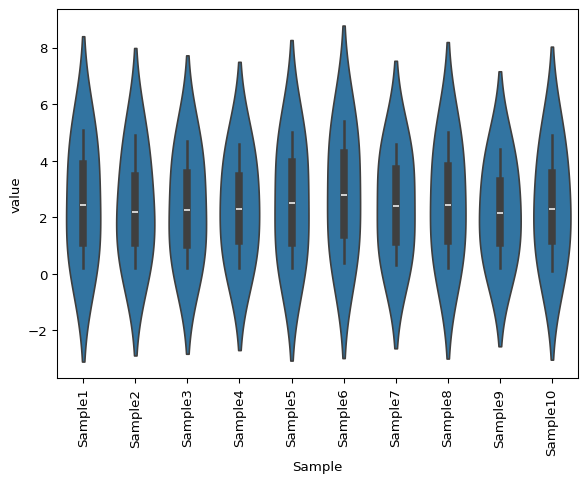
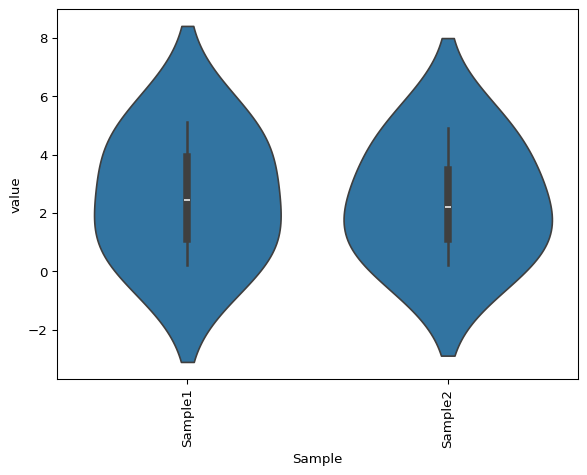
Add subset and transpose functions

diff --git a/pydata/ldata.py b/pydata/ldata.py
@@ -1,4 +1,6 @@
 import pandas as pd
+from copy import deepcopy
+import seaborn as sns
 
 class ldata:
     """
@@ -48,9 +50,9 @@ class ldata:
             row names of data attribute.
         """
 
-        self._data = data 
-        self._description = description
-        self._annotation = annotation
+        self._data = deepcopy(data)
+        self._description = deepcopy(description)
+        self._annotation = deepcopy(annotation)
         self._validate()
 
     def __str__(self):
@@ -177,6 +179,47 @@ class ldata:
             "data rownames do not match annotation ID"
         assert colnames == description["ID"].tolist(), \
             "data colnames do not match description ID"
-
-
     
+    @staticmethod
+    def example_ldata():
+        iris = sns.load_dataset("iris")
+        desc = pd.DataFrame({"ID": ["Sample" + str(i) for i in range(1, 151)], "Species": iris["species"]})
+        data = iris.drop(["species"], axis = 1).transpose()
+        data.columns = desc["ID"].tolist()
+        annot = pd.DataFrame({"ID": data.index.tolist()})
+        annot["type"] = annot["ID"].str.extract(r"_(.*)$", expand = False)
+        return ldata(data, desc, annot)
+
+    def subset(self, samples = None, features = None):
+        if samples is None:
+            samples = self.colnames
+        if features is None:
+            features = self.rownames 
+
+        assert set(samples).issubset(self.colnames), "samples are not in data"
+        assert set(features).issubset(self.rownames), "features are not in data"
+
+        self = deepcopy(self)
+        new_dat = deepcopy(self.data)
+        new_dat = new_dat[samples][new_dat.index.isin(features)]
+        new_desc = deepcopy(self.description)
+        new_desc = new_desc[new_desc["ID"].isin(samples)].reset_index(drop = True)
+        new_annot = deepcopy(self.annotation)
+        new_annot = new_annot[new_annot["ID"].isin(features)].reset_index(drop = True)
+
+        self._data = new_dat
+        self._description = new_desc
+        self._annotation = new_annot
+        self._validate()
+        return self
+
+    def transpose(self):
+        self = deepcopy(self)
+        new_dat = deepcopy(self.data)
+        new_desc = deepcopy(self.description)
+        new_annot = deepcopy(self.annotation)
+        self._data = new_dat.transpose()
+        self._description = new_annot
+        self._annotation = new_desc 
+        self._validate() 
+        return self

diff --git a/tests/test_pydata.py b/tests/test_pydata.py
@@ -42,6 +42,11 @@ def test_pydata_generation(snapshot):
     
     snapshot.assert_match(str(x), "pydata.txt")
 
+def test_example_pydata(snapshot):
+    x = pydata.example_pydata()
+    assert isinstance(x, pydata)
+    snapshot.assert_match(str(x), "example_pydata.txt")
+
 def test_perform_pca(snapshot):
     x = pydata(data, desc, annot)
 
@@ -71,3 +76,53 @@ def test_perform_lda(snapshot):
     assert isinstance(x.lda, lda)
     snapshot.assert_match(str(x.lda), "pydata_lda_print.txt")
     snapshot.assert_match(x.lda.data.round(3).to_csv(), "pydata_lda_data.txt")
+
+def test_subset():
+    x = pydata(data, desc, annot)
+
+    with pytest.raises(AssertionError) as err:
+        x.subset(samples = ["sample"])
+    assert "samples are not in data" in str(err.value)
+
+    with pytest.raises(AssertionError) as err:
+        x.subset(features = ["feature"])
+    assert "features are not in data" in str(err.value)
+
+    x.perform_pca()
+    x.perform_lda(target = "Treatment", n_comp = 1)
+    samples = ["Sample1", "Sample3"]
+    features = ["Feature1", "Feature3", "Feature18"]
+    s = x.subset(samples = samples, features = features)
+
+    assert isinstance(s, pydata)
+    assert s.colnames == samples 
+    assert s.rownames == features 
+    assert s.description["ID"].tolist() == samples
+    assert s.description.index.tolist() == [0, 1]
+    assert s.annotation["ID"].tolist() == features
+    assert s.annotation.index.tolist() == [0, 1, 2]
+    assert s.data.columns.tolist() == samples 
+    assert s.data.index.tolist() == features
+    assert s.pcs is None 
+    assert s.lda is None
+    assert x.colnames == data.columns.tolist()
+    assert x.rownames == data.index.tolist()
+
+def test_transpose():
+    x = pydata(data, desc, annot)
+    x.perform_pca()
+    x.perform_lda(target = "Treatment", n_comp = 1)
+
+    l = x.transpose()
+
+    assert isinstance(l, pydata)
+    assert l.colnames == x.rownames
+    assert l.rownames == x.colnames
+    assert l.description["ID"].tolist() == x.annotation["ID"].tolist()
+    assert l.annotation["ID"].tolist() == x.description["ID"].tolist()
+    assert l.data.columns.tolist() == x.data.index.tolist()
+    assert l.data.index.tolist() == x.data.columns.tolist()
+    assert l.pcs is None 
+    assert l.lda is None
+    assert x.colnames == data.columns.tolist()
+    assert x.rownames == data.index.tolist()

diff --git a/pydata/pydata.py b/pydata/pydata.py
@@ -88,13 +88,8 @@ class pydata(ldata):
 
     @staticmethod
     def example_pydata():
-        iris = sns.load_dataset("iris")
-        desc = pd.DataFrame({"ID": ["Sample" + str(i) for i in range(1, 151)], "Species": iris["species"]})
-        data = iris.drop(["species"], axis = 1).transpose()
-        data.columns = desc["ID"].tolist()
-        annot = pd.DataFrame({"ID": data.index.tolist()})
-        annot["type"] = annot["ID"].str.extract(r"_(.*)$", expand = False)
-        return pydata(data, desc, annot)
+        out = ldata.example_ldata()
+        return pydata(out.data, out.description, out.annotation)
 
     def _get_pcs(self):
         return getattr(self, "_pcs")
@@ -113,6 +108,18 @@ class pydata(ldata):
             value._validate()
         self._lda = value
     lda = property(_get_lda, _set_lda)
+
+    def subset(self, samples = None, features = None):
+        out = super().subset(samples = samples, features = features)
+        out.pcs = None 
+        out.lda = None 
+        return out
+
+    def transpose(self):
+        out = super().transpose()
+        out.pcs = None 
+        out.lda = None 
+        return out
 
     def perform_pca(
             self, 
@@ -267,13 +274,9 @@ class pydata(ldata):
         df = pd.merge(df, self.lda.description, on = "ID")
         sns.relplot(data = df, x = xaxis, y = yaxis, hue = colour_by)
     
-    def _violin_plot(self, samples = None, **kwargs):
-        if samples is None:
-            samples = self.colnames
-        dat = self._plot_data()
-        dat = dat[dat["Sample"].isin(samples)]
+    def _violin_plot(self, **kwargs):
         sns.violinplot(
-            data = dat, 
+            data = self._plot_data(), 
             x = "Sample", 
             y = "value"
         )
@@ -400,7 +403,7 @@ class pydata(ldata):
                         linewidth = 0
                     )
                 plot.ax_row_dendrogram.legend(
-                    title = "Featurs",
+                    title = "Features",
                     loc = "center left", 
                     ncol = 1
                 )

diff --git a/tests/test_ldata.py b/tests/test_ldata.py
@@ -105,3 +105,52 @@ def test_dimnames():
     x.dimnames = [x.rownames, ["A", "B", "C", "D", "E"][::-1]]
     assert x.colnames == ["A", "B", "C", "D", "E"][::-1]
     assert x.description["ID"].tolist() == ["A", "B", "C", "D", "E"][::-1]
+
+def test_example_ldata(snapshot):
+    x = ldata.example_ldata()
+    assert isinstance(x, ldata)
+    snapshot.assert_match(str(x), "example_ldata.txt")
+
+def test_subset(snapshot):
+    x = ldata(data, desc, annot)
+
+    with pytest.raises(AssertionError) as err:
+        x.subset(samples = ["sample"])
+    assert "samples are not in data" in str(err.value)
+
+    with pytest.raises(AssertionError) as err:
+        x.subset(features = ["feature"])
+    assert "features are not in data" in str(err.value)
+
+    samples = ["Sample1", "Sample3"]
+    features = ["Feature1", "Feature3", "Feature18"]
+    s = x.subset(samples = samples, features = features)
+
+    assert isinstance(s, ldata)
+    assert s.colnames == samples 
+    assert s.rownames == features 
+    assert s.description["ID"].tolist() == samples
+    assert s.description.index.tolist() == [0, 1]
+    assert s.annotation["ID"].tolist() == features
+    assert s.annotation.index.tolist() == [0, 1, 2]
+    assert s.data.columns.tolist() == samples 
+    assert s.data.index.tolist() == features
+    assert x.colnames == data.columns.tolist()
+    assert x.rownames == data.index.tolist()
+    snapshot.assert_match(str(s), "subset_ldata.txt")
+
+def test_transpose(snapshot):
+    x = ldata(data, desc, annot)
+
+    l = x.transpose()
+
+    assert isinstance(l, ldata)
+    assert l.colnames == x.rownames
+    assert l.rownames == x.colnames
+    assert l.description["ID"].tolist() == x.annotation["ID"].tolist()
+    assert l.annotation["ID"].tolist() == x.description["ID"].tolist()
+    assert l.data.columns.tolist() == x.data.index.tolist()
+    assert l.data.index.tolist() == x.data.columns.tolist()
+    assert x.colnames == data.columns.tolist()
+    assert x.rownames == data.index.tolist()
+    snapshot.assert_match(str(l), "transpose_ldata.txt")

diff --git a/tests/test_lda.py b/tests/test_lda.py
@@ -86,3 +86,15 @@ def test_dimnames():
     x.dimnames = [x.rownames, ["A", "B", "C", "D", "E"][::-1]]
     assert x.colnames == ["A", "B", "C", "D", "E"][::-1]
     assert x.description["ID"].tolist() == ["A", "B", "C", "D", "E"][::-1]
+
+def test_subset():
+    x = lda(lds, desc, annot)
+    with pytest.raises(Exception) as err:
+        x.subset()
+    assert "Cannot subset lda object" in str(err.value)
+
+def test_transpose():
+    x = lda(lds, desc, annot)
+    with pytest.raises(Exception) as err:
+        x.transpose()
+    assert "Cannot transpose lda object" in str(err.value)

diff --git a/tests/test_pca.py b/tests/test_pca.py
@@ -98,3 +98,15 @@ def test_dimnames():
     x.dimnames = [x.rownames, ["A", "B", "C", "D", "E"][::-1]]
     assert x.colnames == ["A", "B", "C", "D", "E"][::-1]
     assert x.description["ID"].tolist() == ["A", "B", "C", "D", "E"][::-1]
+
+def test_subset():
+    x = pca(pcs, desc, annot)
+    with pytest.raises(Exception) as err:
+        x.subset()
+    assert "Cannot subset pca object" in str(err.value)
+
+def test_transpose():
+    x = pca(pcs, desc, annot)
+    with pytest.raises(Exception) as err:
+        x.transpose()
+    assert "Cannot transpose pca object" in str(err.value)

diff --git a/pydata/pca.py b/pydata/pca.py
@@ -99,4 +99,10 @@ class pca(ldata):
             "annotation must contain 'Percentage variance explained' column"
         super()._validate()
 
+    def subset(self):
+        raise Exception("Cannot subset pca object")
+    
+    def transpose(self):
+        raise Exception("Cannot transpose pca object")
+
     

diff --git a/pydata/lda.py b/pydata/lda.py
@@ -67,6 +67,8 @@ class lda(ldata):
             "rownames must be in format LD1, LD2, etc"
         super()._validate()
 
+    def subset(self):
+        raise Exception("Cannot subset lda object")
     
-
-    
+    def transpose(self):
+        raise Exception("Cannot transpose lda object")

diff --git a/README.md b/README.md
@@ -9,6 +9,8 @@ which can be used for development and running the following examples.
 
 `docker run -it docker.io/jsleight1/pydata:3.10-latest`
 
+## Pydata generation and handling
+
 ``` python
 import matplotlib.pyplot as plt
 from pydata.pydata import pydata
@@ -19,6 +21,13 @@ print(x)
 print(x.data.head(2))
 print(x.description.head(2))
 print(x.annotation.head(2))
+
+x.subset(
+    samples = ["Sample1", "Sample30", "Sample52"], 
+    features = ["sepal_length", "petal_length"]
+)
+
+x.transpose()
 ```
 
     pydata object:
@@ -46,6 +55,9 @@ print(x.annotation.head(2))
                  ID    type
     0  sepal_length  length
     1   sepal_width   width
+
+    pydata object:
+     - Dimensions: 4 (samples) x 150 (features)
 
 ## Linear dimensionality reduction
 
@@ -129,7 +141,7 @@ plt.show()
 x.plot(type = "lda")
 plt.show()
 
-x.plot(type = "violin", samples = x.colnames[0:10], hue = "Species")
+x.subset(samples = ["Sample1", "Sample2"]).plot(type = "violin")
 plt.show()
 
 x.plot(
